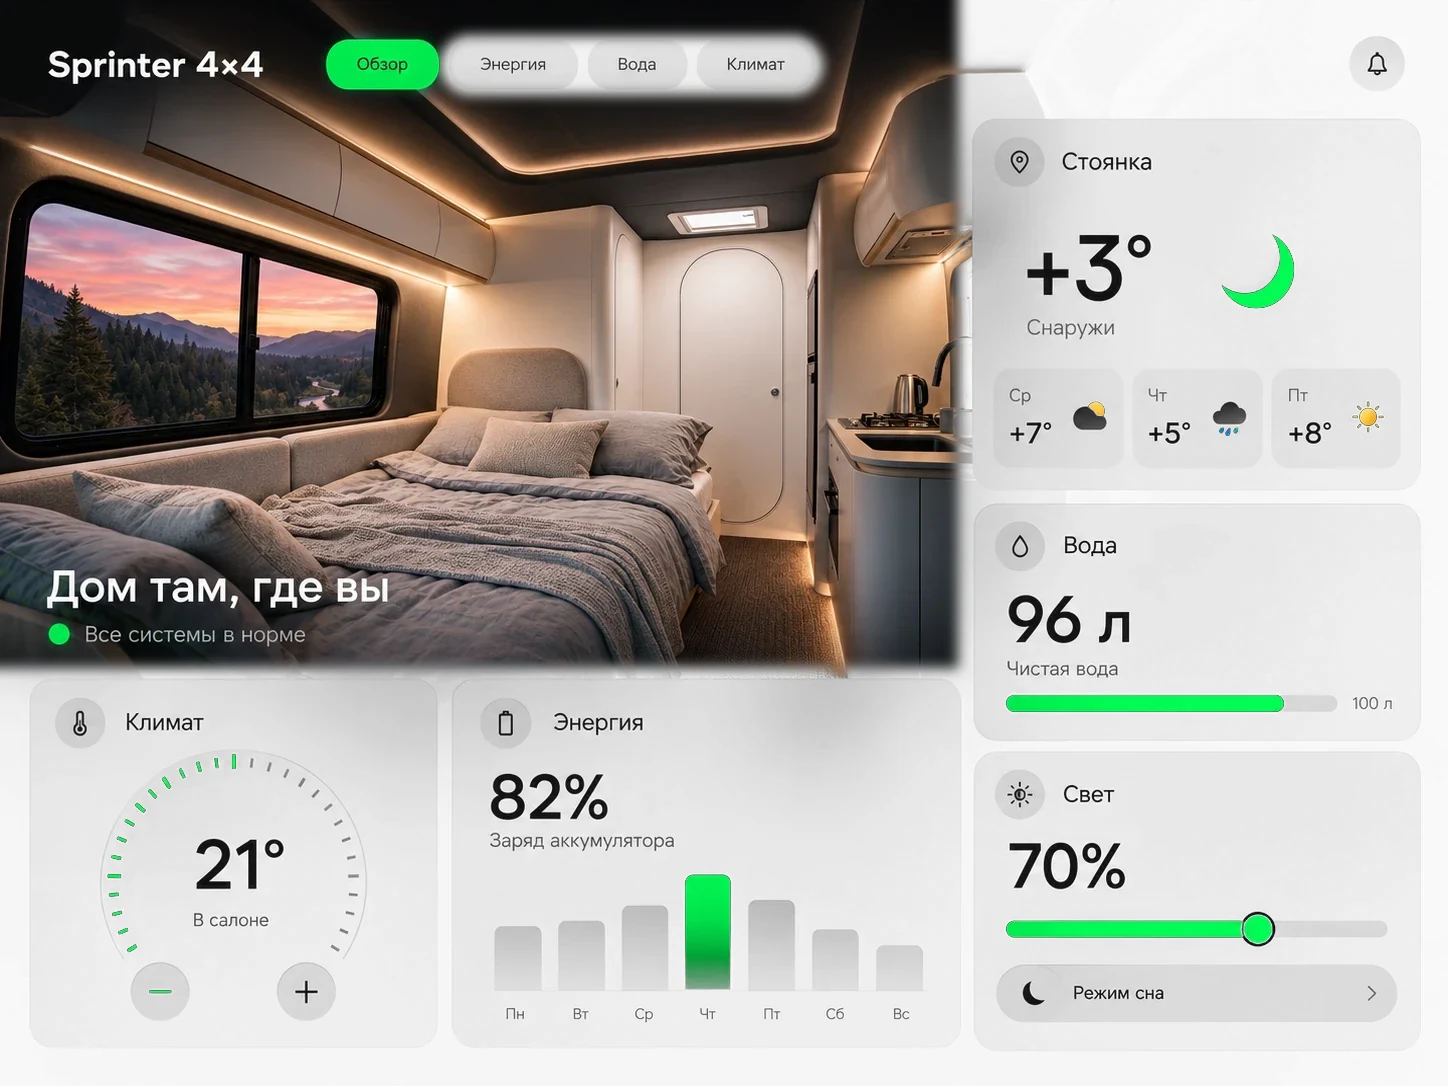
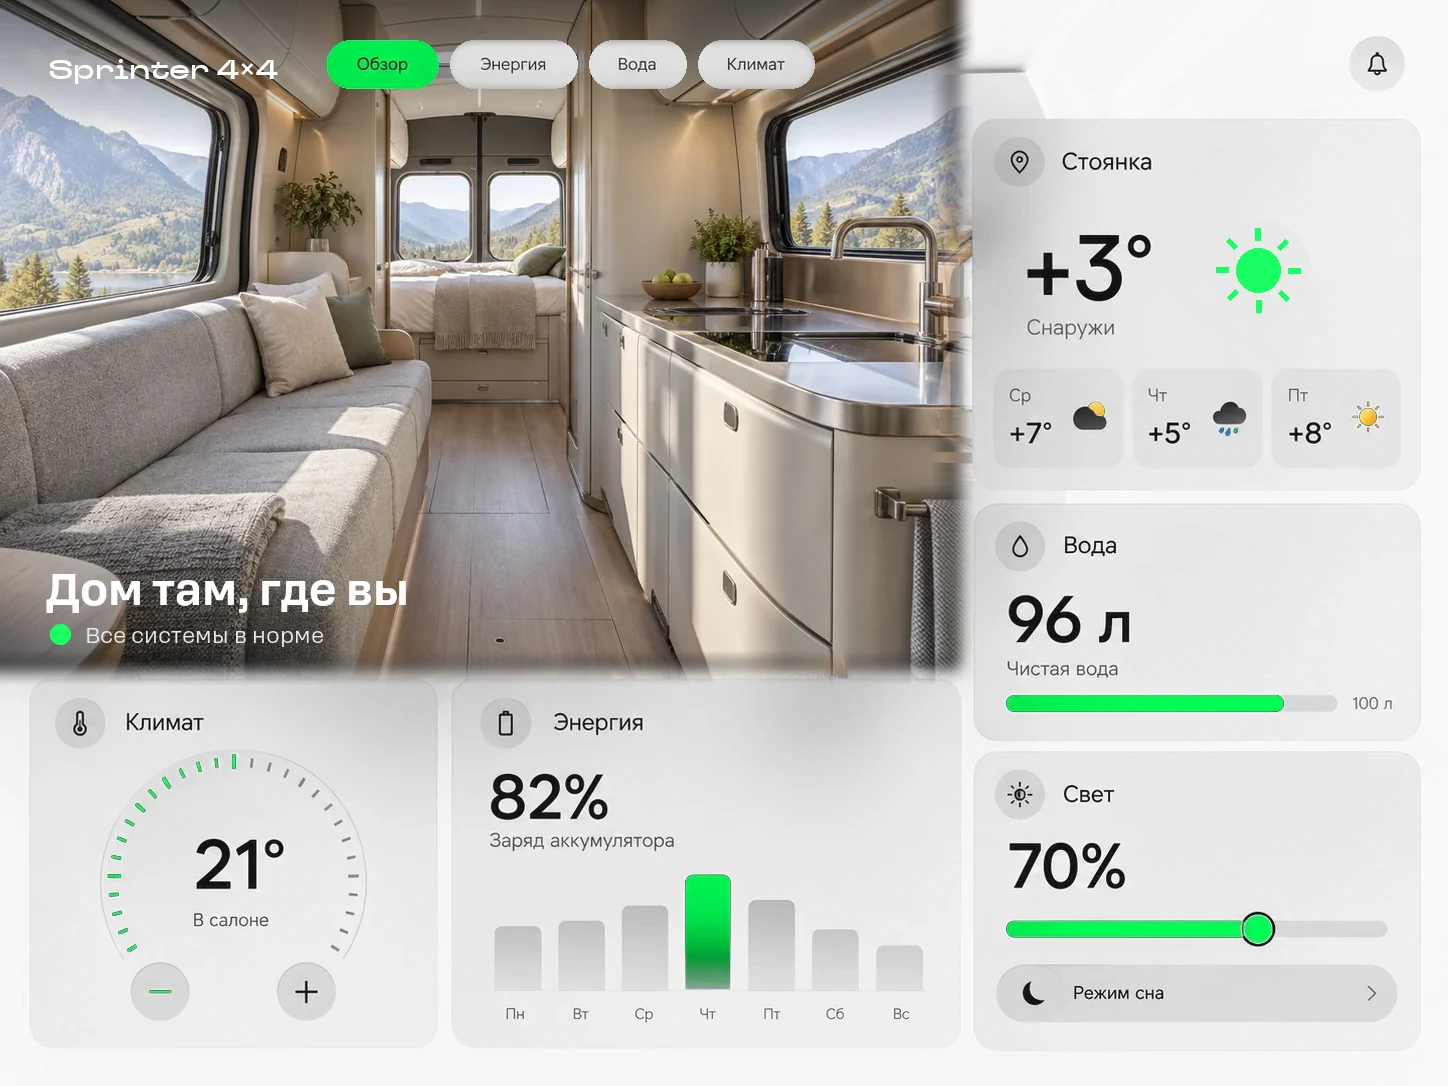
story: дневное фото на светлом экране планшета, слоган про независимость

diff --git a/story.html b/story.html
@@ -371,7 +371,7 @@
 <section class="story-outro">
   <svg class="story-logo" viewBox="0 0 64 64" fill="none" aria-hidden="true"><g transform="translate(32 32) rotate(45) scale(.74) translate(-32 -32)"><path d="M12 4H21Q29 4 29 12V21.42A11 11 0 0 0 21.42 29H12Q4 29 4 21V12Q4 4 12 4Z" fill="currentColor" transform="rotate(0 32 32)"/><path d="M12 4H21Q29 4 29 12V21.42A11 11 0 0 0 21.42 29H12Q4 29 4 21V12Q4 4 12 4Z" fill="currentColor" transform="rotate(90 32 32)"/><path d="M12 4H21Q29 4 29 12V21.42A11 11 0 0 0 21.42 29H12Q4 29 4 21V12Q4 4 12 4Z" fill="currentColor" transform="rotate(180 32 32)"/><path d="M12 4H21Q29 4 29 12V21.42A11 11 0 0 0 21.42 29H12Q4 29 4 21V12Q4 4 12 4Z" fill="currentColor" transform="rotate(270 32 32)"/></g><circle cx="32" cy="32" r="5" fill="var(--logo-accent, #18FF64)"/></svg>
   <p class="story-display" style="font-size: clamp(48px, 7vw, 132px)">Для свободных <i>душой</i></p>
-  <p class="story-p" style="margin: 0; max-width: 34ch; font-size: clamp(18px, 1.6vw, 26px); line-height: 1.4; color: var(--text)">Для тех, кто ценит свободу. Кто хочет быть везде — там, где можно, и там, где нельзя.</p>
+  <p class="story-p" style="margin: 0; max-width: 40ch; font-size: clamp(18px, 1.6vw, 26px); line-height: 1.4; color: var(--text)">Для тех, кто ценит свободу: ни от кого не зависеть и самому выбирать свой путь. Быть везде — там, где можно, и там, где нельзя.</p>
   <p class="story-eyebrow" style="margin: 8px 0 0">Автодом Sprinter 4×4</p>
   <div class="story-links"><a href="index.html">Основной сайт</a><a href="bento.html">Бенто-версия</a><a href="story-assets.md">Список картинок</a></div>
 </section>
